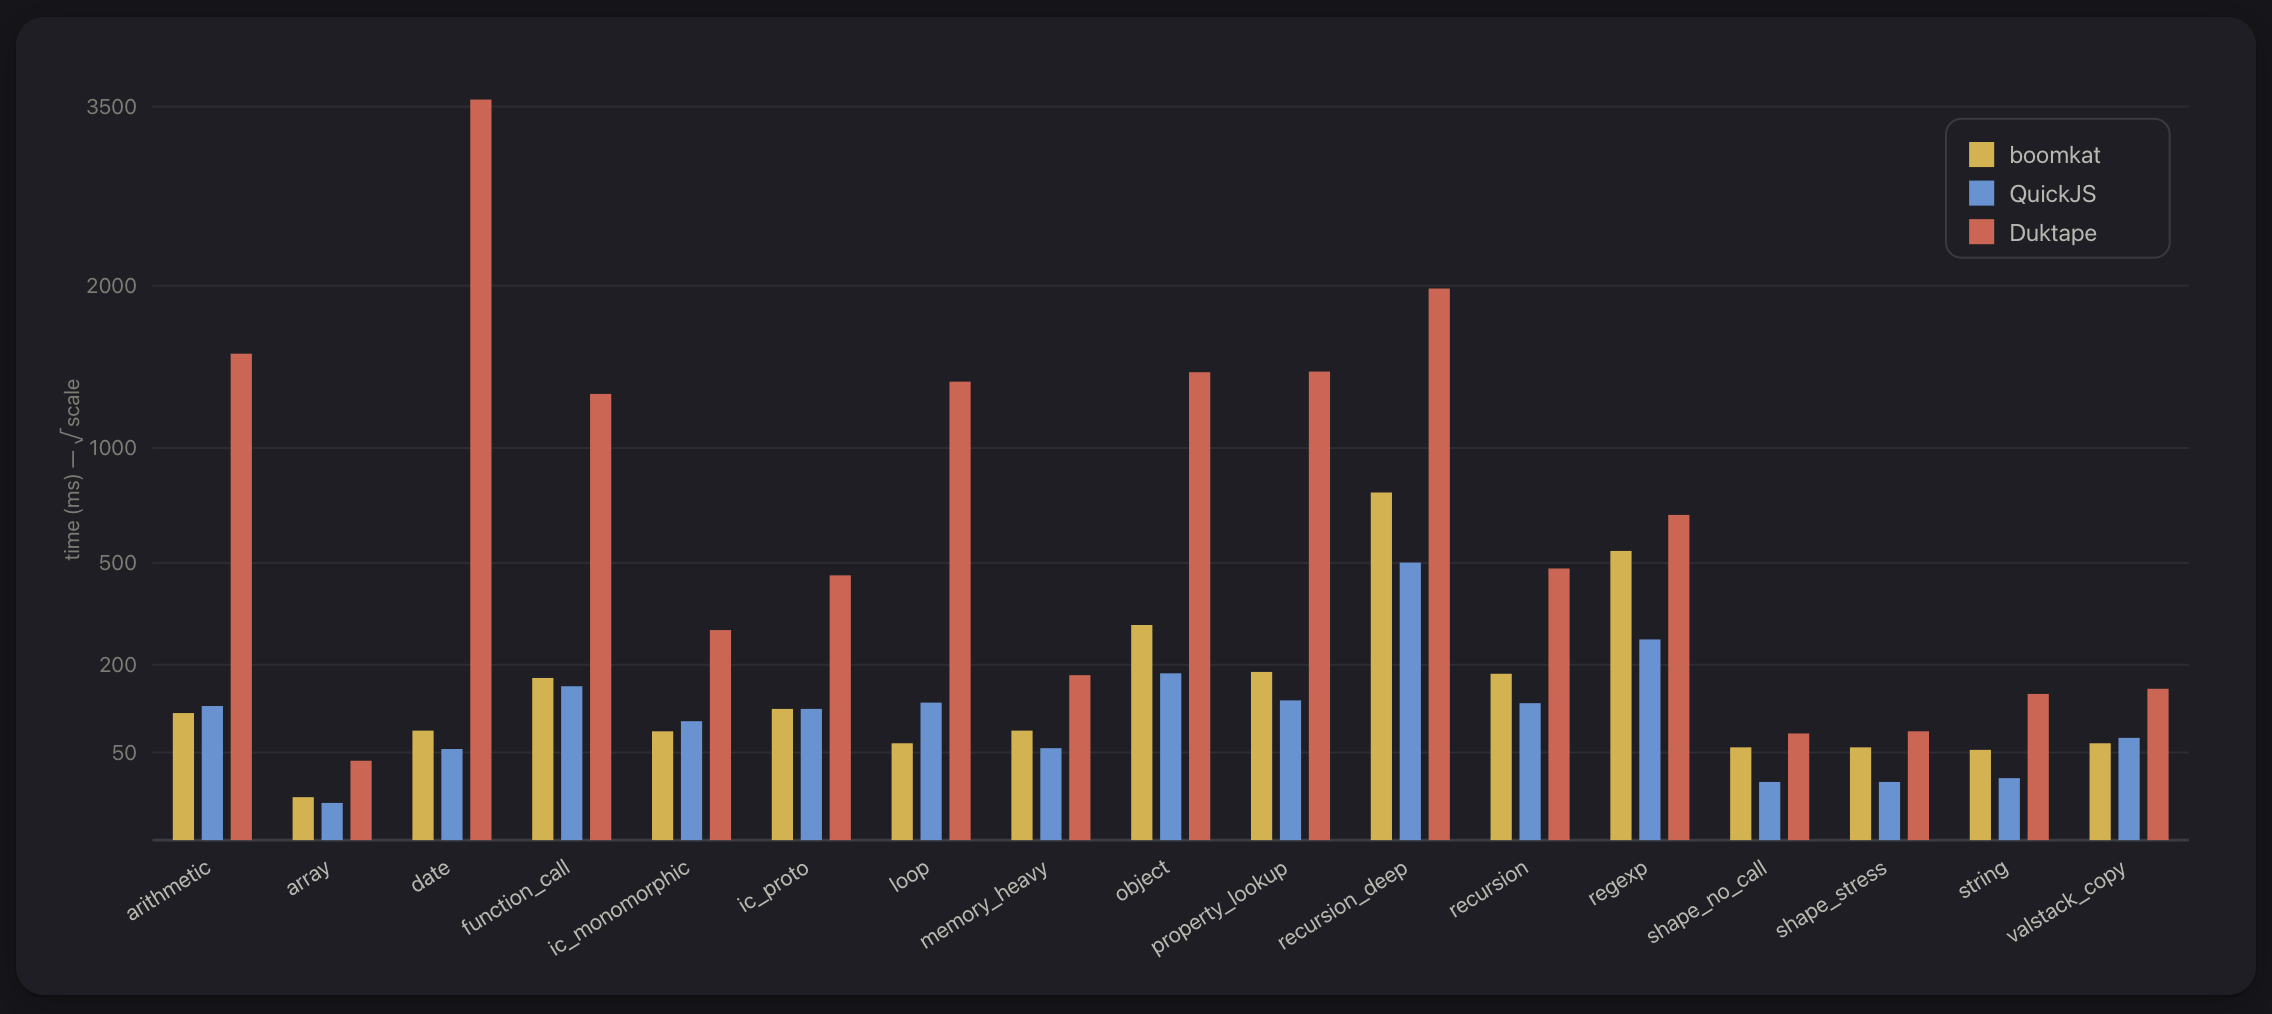
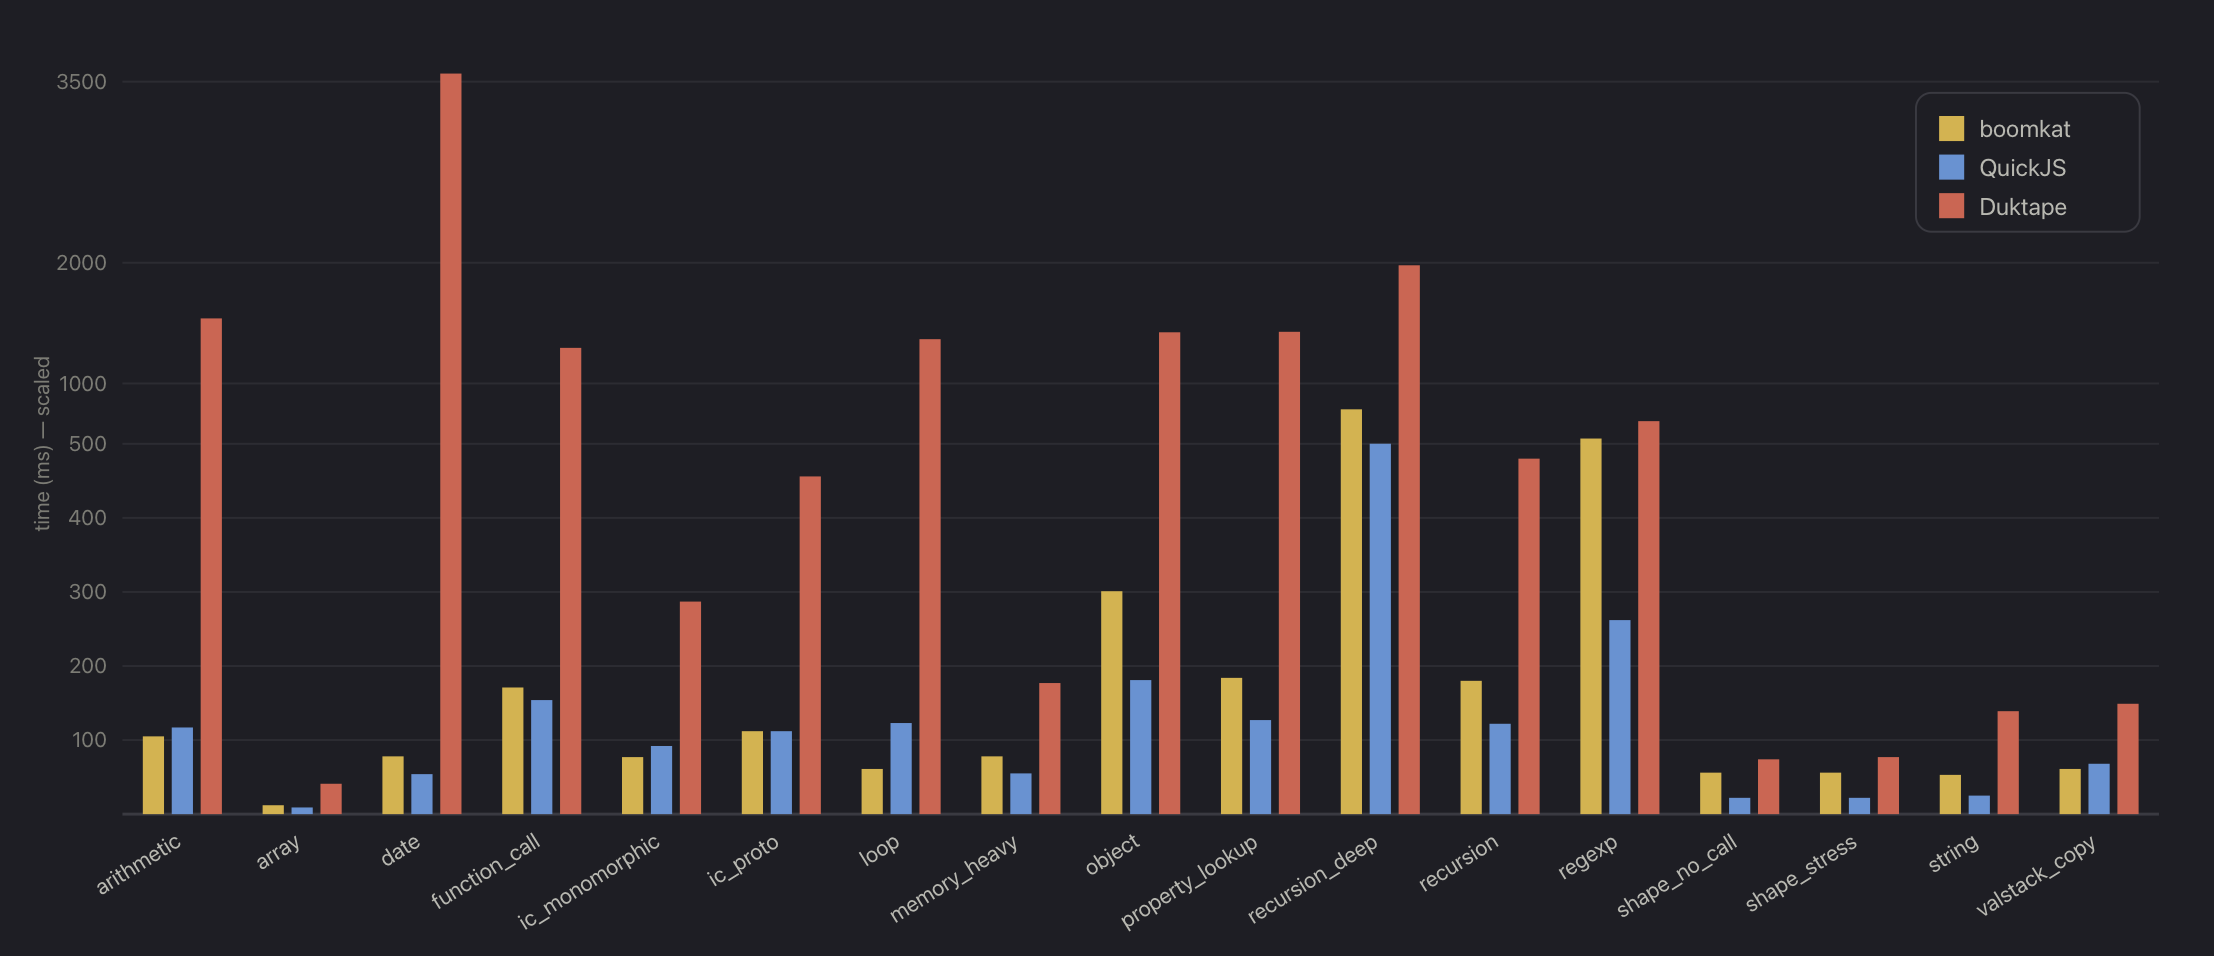
update README

diff --git a/README.md b/README.md
@@ -3,102 +3,76 @@
   <img src="./docs/boomkat.png" alt="" width="80" />
   <h1 align="center">boomkat</h1>
   <p align="center">
-    A modern, fully ES compatible, strict-only javascript engine
+    A modern, lightweight Javascript engine
+  </p>
+  <p>
+    <img src="https://img.shields.io/badge/JavaScript-F7DF1E?logo=javascript&logoColor=000">&nbsp;<img src="https://img.shields.io/badge/TypeScript-3178C6?logo=typescript&logoColor=fff">
   </p>
 </div>
 
-> *boomkat* is the dutch name for the [Margay](https://en.wikipedia.org/wiki/Margay), a small wild cat native to South America; translates to 'tree cat'. It fits with the tradition of animal-themed names for JS engines and sounds cool :)
+<br>
 
-## About
+**Boomkat** is a strict-only Javascript engine developed from scratch using the [C3](https://c3-lang.org/) language.
 
-**Boomkat** is a strict-only Javascript engine developed from scratch. It is written in [C3](https://c3-lang.org/), using Duktape and QuickJS as architectural references. The goal was to match Duktape's performance, but ended up matching (even slightly surpassing) QuickJS in runtime performance and memory usage.
+It was heavily inspired by [Duktape](https://duktape.org) and [QuickJS](https://bellard.org/quickjs/), built for embedding and to potentially target embedded devices. In contrast to latest Duktape, *boomkat* supports 100% of the ES2025 specification; it also runs TypeScript files natively, while being significantly faster and only marginally larger in size.
 
-👉 This is **not production-ready** code. Surprisingly, 100% test262 conformance is not nearly enough to validate the engine. There are still bugs lurking. In particular, the source code has not been scanned for security vulnerabilities. Use at your own peril.
+> *boomkat* is the dutch name for the [Margay](https://en.wikipedia.org/wiki/Margay), a small wild cat native to South America; translates to 'tree cat'. It fits with the tradition of animal-themed names for JS engines (like SpiderMonkey) and has a nice ring to it :)
 
 ## Features and compatibility
 
-- Runs everything in **strict mode** only
-- Passes **50k** tests from the [test262](https://github.com/tc39/test262) suite. 100% pass rate on the targeted subset (skips sloppy mode, legacy and proposal-stage features)
-- Supports all modern JS features like `Map/Set`, `ArrayBuffer` and `TypedArray`, `Proxy`, async/await, private fields, template literals, optional chaining
-- Built-in support for ES modules
+- **Strict mode** only
+- 100% pass rate on **50k** tests from the [test262 conformance suite](https://github.com/tc39/test262)
+- Built-in support for **ES modules**
 - **Natively runs TypeScript** code (including module support), including the TypeScript compiler itself
-
-<p align="center">
-  <img align="center" src="./docs/example_javascript.png" width="400" />
-  <img align="center" src="./docs/example_typescript.png" width="400" />
-</p>
+- Supports all modern JS features: `Map/Set`, `ArrayBuffer` and `TypedArray`, `Proxy`, async/await, private fields, template literals, optional chaining
 
 A full ECMAScript feature-by-feature breakdown against QuickJS, quickjs-ng, and
 Duktape can be found in [FEATURES.md](FEATURES.md).
 
-> Note: boomkat is *not a runtime*; it does not offer file or network APIs and is not a replacement for Node/Bun - and is very far from matching V8/SpiderMonkey performance. It is meant to be embedded into a host application as a scripting language, like QuickJS.
-
-## Why?
-
-This started as a simple attempt at converting Duktape from C to C3. I was bored, excited about doing something in the C3 lang, and really wanted to see what could be done using the latest generation of open-weight LLMs. As development went on I dropped the idea of a 1:1 port and started looking at other engines for new ideas.
-
-This project took about 12 weeks of nearly non-stop AI agents, working day and night. An estimated ~$300 was spent across Minimax, DeepSeek, Xiaomi Mimo, Claude Code and a dozen other LLMs. A full write-up on the development process, timeline and cost breakdown is in the works.
-
-## Design
-
-- **Strict-only.** There is no sloppy mode. Non-strict and Annex B features are rejected at parse time;
-  `"use strict"` is accepted and ignored.
-- **One-pass compiler.** No AST, parser emits bytecode.
-- **Register VM.** 32-bit instructions, inline caches for property and variable access, hidden classes / object shapes, peephole optimizations and fused opcodes on the hot paths.
-- **Threaded dispatch**. Direct-threaded dispatch achieved through tail-call optimization in LLVM as C3 does not have computed-goto.
-- **NaN-boxed values.** Uses 8-byte packed `TVal` structs; A plain tagged union mode is available with `-D NONANBOX` for debugging and portability
-- **Hybrid collector.** Refcounting reclaims most values; a mark-and-sweep GC collects the rest
+> 👉 **not production-ready**. In particular, the source code has not been scanned for security vulnerabilities. Use at your own risk.
 
 ## Real-world validation
 
-Apparently fifty thousand tests are not nearly enough to verify that the engine actually works. A trillion bugs were uncovered by actually trying to run code.
+Tested against production libraries.
 
-**Javascript**: we run unmodified npm sources against the engine. The `python3 scripts/verify_libraries.py --api-checks` script downloads and tries to execute each library, then runs a few tests against each, and compare the results with QuickJS:
+**Javascript**: we run unmodified npm sources against the engine, run a few functional tests, and compare the results with QuickJS.
 
-| Library | Version | Loading | API checks |
-|---|---|:---:|---:|
-| lodash | 4.17.21 | ✅ | 17 |
-| underscore | 1.13.6 | ✅ | 8 |
-| moment | * | ✅ | 6 |
-| marked | 4.3.0 | ✅ | 5 |
-| handlebars | 4.7.8 | ✅ | 5 |
-| immutable | * | ✅ | 6 |
-| acorn | * | ✅ | 4 |
-| bluebird | 3.7.2 | ✅ | 5 |
-| decimal.js | * | ✅ | 5 |
-| bignumber.js | * | ✅ | 7 |
-| mathjs | * | ✅ | 5 |
-| jszip | 3.10.1 | ✅ | 4 |
-| papaparse | * | ✅ | 4 |
-| crypto-js | * | ✅ | 4 |
-| protobufjs | 7.4.0 | ✅ | 2 |
-| chance | * | ✅ | 5 |
-| he | * | ✅ | 4 |
-| nearley | * | ✅ | 2 |
-| d3-array | * | ✅ | 7 |
-| uuid | 8.3.2 | ✅ | 2 |
-| typescript | 5.4.5 | ✅ | 4 |
-| @babel/standalone | 7.24.7 | ✅ | 3 |
+Run with `python3 scripts/verify_libraries.py --api-checks`
 
-**TypeScript**: `python3 scripts/verify_ts_libraries.py` downloads sources and runs them
-unmodified against the engine. The output must match the result of running the same source stripped by `tsc`.
+Validated JavaScript libraries:
 
-| Source | Version | What is checked | Pass |
-|---|---|---|:---:|
-| microdiff | 1.4.0 | single-file diff library | ✅ |
-| zustand | 5.0.3 | vanilla store (`src/vanilla.ts`) | ✅ |
-| valtio | 2.1.3 | vanilla store + vendored proxy-compare 3.0.1 | ✅ |
-| @preact/signals-core | 1.14.4 | signal primitives (`src/index.ts`) | ✅ |
-| jotai | 2.20.2 | vanilla package tree (`src/vanilla/`) | ✅ |
-| fp-ts | 2.16.9 | full source tree (123 modules), bare self-imports, `import X = Y`, overload signatures | ✅ |
-| zod | 4.4.3 | lib tree (107 modules), NodeNext `.js` specifiers, type modifiers in re-export lists | ✅ |
+- ✅ lodash
+- ✅ underscore
+- ✅ moment
+- ✅ marked
+- ✅ handlebars
+- ✅ immutable.js
+- ✅ typescript
+- ✅ @babel/standalone
+- ✅ jszip
+- ✅ papaparse
+- others: acorn, bluebird, decimal.js, bignumber.js, mathjs, crypto-js, protobufjs, chance, he, nearley, d3-array, uuid
+
+**TypeScript**: we download sources and run them unmodified against the engine; the output must match the result of running the same source stripped by `tsc`.
+
+Run with `python3 scripts/verify_ts_libraries.py`
+
+Validated TypeScript libraries:
+
+- ✅ microdiff
+- ✅ zustand
+- ✅ valtio
+- ✅ @preact/signals-core
+- ✅ jotai
+- ✅ fp-ts
+- ✅ zod
 
 ## Benchmarks
 
-Run `just bench` to benchmark against Duktape and QuickJS.
+From `just bench`:
 
 - 5x-10x faster than Duktape across the board
-- match or beat QuickJS in most benchmarks
+- matches or beats QuickJS in most benchmarks
 
 <img src="./docs/benchmarks.png" alt="Benchmark comparison of boomkat, QuickJS and Duktape across 17 benchmarks (time in ms, lower is better)" width="900" />
 
@@ -108,7 +82,7 @@ Run `just bench` to benchmark against Duktape and QuickJS.
 
 - C3 compiler: `brew install c3c`
 - Just: `brew install just`
-- Python 3
+- `python3` in PATH
 
 | Task | Command |
 |---|---|
